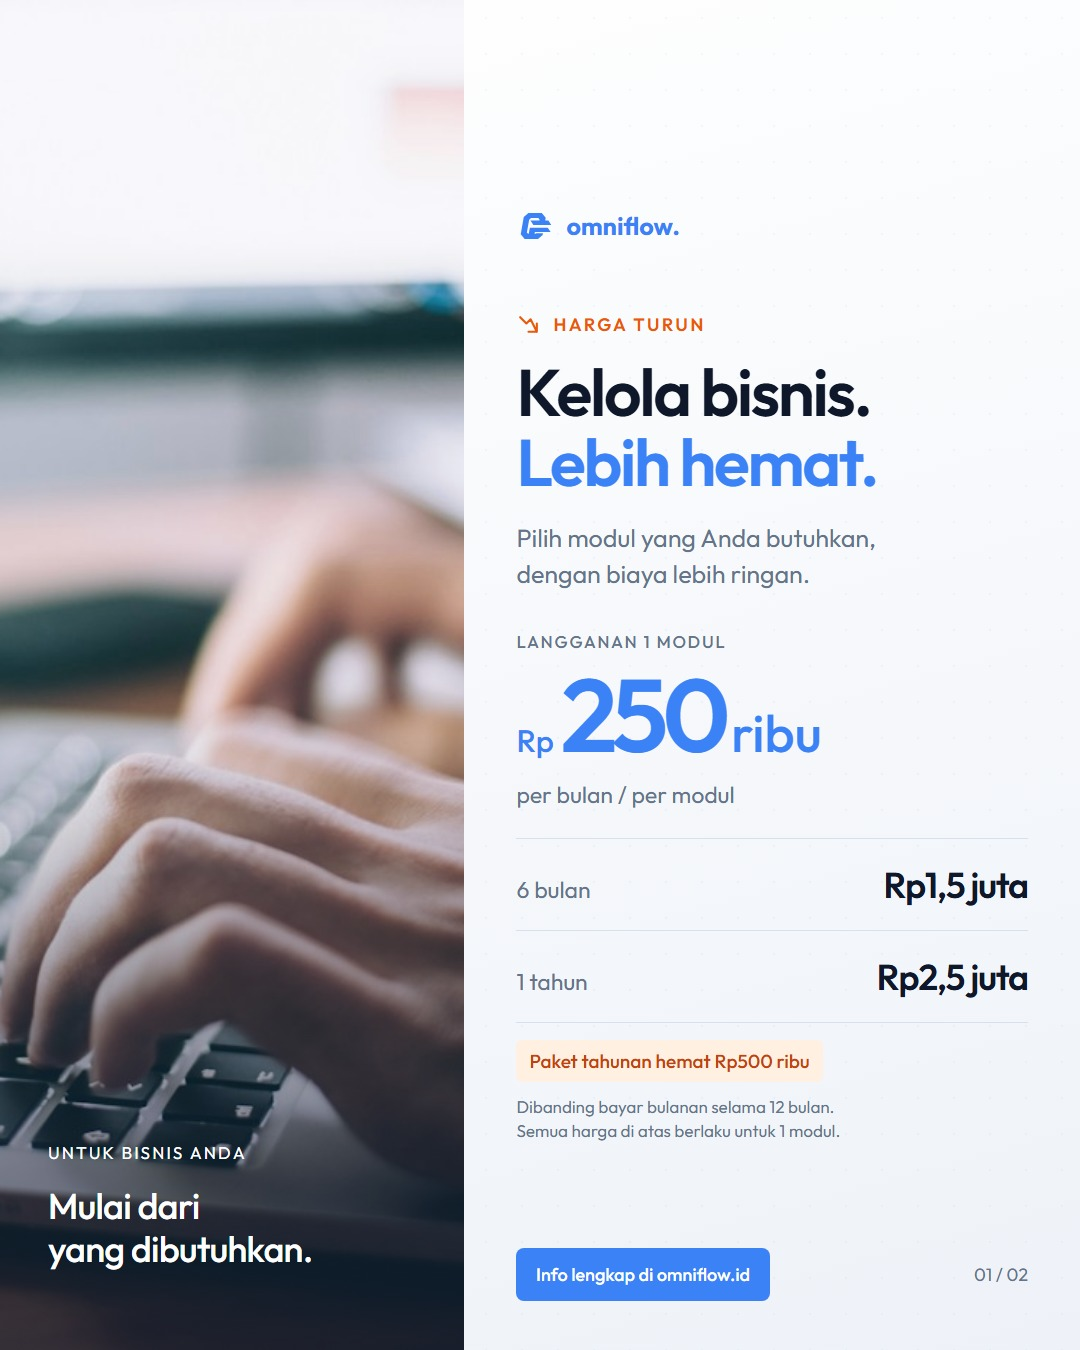
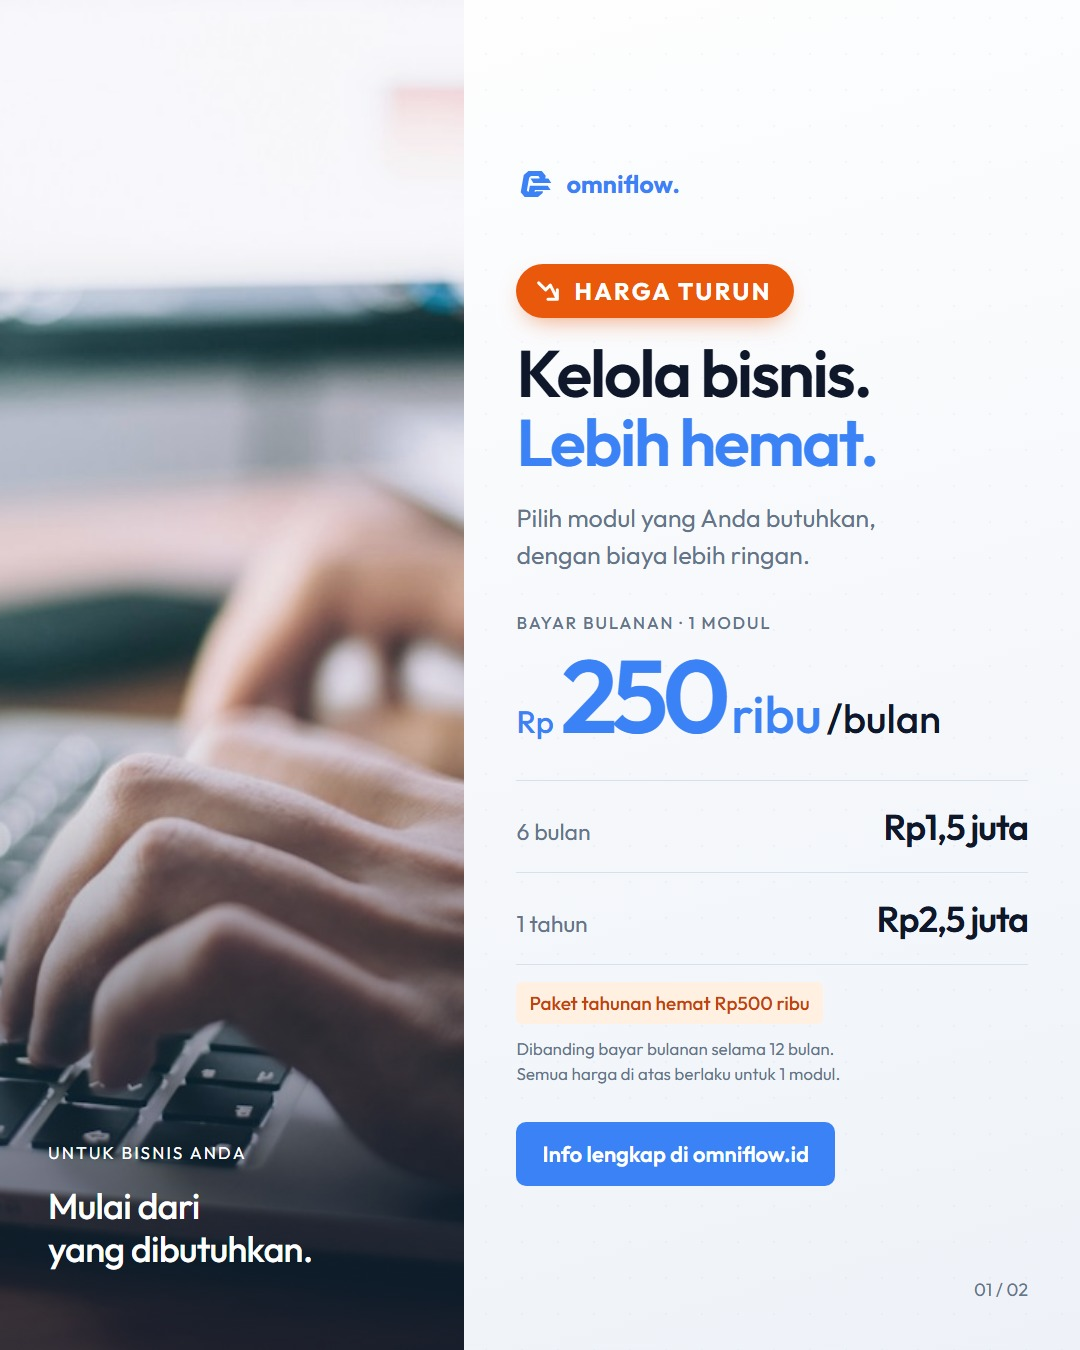
Refine Omniflow price drop IG: clearer monthly price, larger story type, highlighted badge

diff --git a/omniflow/ig-turun-harga/slide_01.html b/omniflow/ig-turun-harga/slide_01.html
@@ -19,8 +19,8 @@
     .content { padding: 90px 52px; flex: 1; align-self: center; }
     .brand { display: flex; gap: 10px; align-items: center; color: #3b82f6; font-size: 25px; font-weight: 700; }
     .brand svg { width: 40px; height: 40px; }
-    .eyebrow { margin-top: 66px; color: #ea580c; font-size: 18px; font-weight: 600; letter-spacing: .13em; display: flex; align-items: center; gap: 12px; }
-    .eyebrow svg { width: 25px; height: 25px; }
+    .eyebrow { margin-top: 60px; display: inline-flex; align-items: center; gap: 12px; padding: 12px 22px 12px 18px; background: #ea580c; color: #fff; border-radius: 999px; font-size: 24px; font-weight: 700; letter-spacing: .1em; box-shadow: 0 10px 24px -10px rgba(234,88,12,.6); }
+    .eyebrow svg { width: 28px; height: 28px; stroke-width: 2.6; }
     h1 { margin-top: 20px; font-size: 66px; line-height: 1.06; letter-spacing: -.035em; font-weight: 600; }
     h1 span { color: #3b82f6; }
     .intro { margin-top: 23px; color: #64748b; font-size: 25px; line-height: 1.45; }
@@ -30,19 +30,41 @@
     .price .rp { font-size: 31px; font-weight: 500; }
     .price strong { font-size: 103px; line-height: 1.08; letter-spacing: -.06em; font-weight: 600; }
     .price .unit { font-size: 52px; font-weight: 500; }
-    .period { font-size: 23px; color: #64748b; margin-top: 9px; }
+    .price .per { font-size: 40px; font-weight: 500; color: #0f172a; margin-left: -2px; }
     .option { padding: 23px 0; border-bottom: 1px solid #d7e0ed; display: flex; justify-content: space-between; align-items: baseline; }
     .option span { font-size: 23px; color: #64748b; }
     .option strong { font-size: 36px; letter-spacing: -.035em; font-weight: 600; }
     .saving { display: inline-block; margin-top: 17px; color: #c2410c; font-size: 19px; font-weight: 500; background: #fff0e2; padding: 9px 13px; border-radius: 6px; }
     .note { margin-top: 13px; font-size: 17px; color: #64748b; line-height: 1.45; }
-    .footer { position: absolute; bottom: 49px; left: 516px; right: 52px; display: flex; align-items: center; justify-content: space-between; font-size: 18px; color: #64748b; }
-    .footer b { color: #3b82f6; font-weight: 500; }
-    .footer b { padding: 15px 20px; background: #3b82f6; color: #fff; border-radius: 8px; }
+    .cta { display: inline-block; margin-top: 36px; padding: 18px 26px; background: #3b82f6; color: #fff; border-radius: 10px; font-size: 22px; font-weight: 600; }
+    .footer { position: absolute; bottom: 49px; right: 52px; font-size: 18px; color: #64748b; }
     html.story .canvas { height: 1920px; }
     html.story .photo-caption { bottom: 240px; }
-    html.story .footer { bottom: 230px; }
-    html.story .content { padding-top: 150px; padding-bottom: 150px; }
+    html.story .footer { bottom: 190px; }
+    html.story .content { padding: 0 52px 0 56px; }
+    html.story .photo { width: 33%; }
+    html.story .photo-caption { font-size: 34px; left: 40px; right: 16px; }
+    html.story .photo-caption small { font-size: 17px; margin-bottom: 18px; }
+    html.story .brand { font-size: 36px; gap: 14px; }
+    html.story .brand svg { width: 56px; height: 56px; }
+    html.story .eyebrow { margin-top: 70px; font-size: 32px; padding: 16px 30px 16px 24px; gap: 14px; }
+    html.story .eyebrow svg { width: 38px; height: 38px; }
+    html.story h1 { margin-top: 26px; font-size: 98px; }
+    html.story .intro { margin-top: 30px; font-size: 35px; }
+    html.story .monthly { margin-top: 56px; padding-bottom: 38px; }
+    html.story .label { font-size: 24px; }
+    html.story .price { margin-top: 10px; }
+    html.story .price .rp { font-size: 42px; }
+    html.story .price strong { font-size: 144px; }
+    html.story .price .unit { font-size: 70px; }
+    html.story .price .per { font-size: 52px; }
+    html.story .option { padding: 32px 0; }
+    html.story .option span { font-size: 33px; }
+    html.story .option strong { font-size: 54px; }
+    html.story .saving { margin-top: 26px; font-size: 28px; padding: 13px 18px; }
+    html.story .note { margin-top: 18px; font-size: 25px; }
+    html.story .cta { margin-top: 50px; padding: 26px 38px; font-size: 33px; border-radius: 12px; }
+    html.story .footer { font-size: 22px; }
     @media (max-width: 1079px) { .canvas { zoom: calc(100vw / 1080px); } }
   </style>
 </head>
@@ -60,16 +82,16 @@
       <h1>Kelola bisnis.<br><span>Lebih hemat.</span></h1>
       <p class="intro">Pilih modul yang Anda butuhkan,<br>dengan biaya lebih ringan.</p>
       <div class="monthly">
-        <div class="label">LANGGANAN 1 MODUL</div>
-        <div class="price"><span class="rp">Rp</span><strong>250</strong><span class="unit">ribu</span></div>
-        <div class="period">per bulan / per modul</div>
+        <div class="label">BAYAR BULANAN &middot; 1 MODUL</div>
+        <div class="price"><span class="rp">Rp</span><strong>250</strong><span class="unit">ribu</span><span class="per">/bulan</span></div>
       </div>
       <div class="option"><span>6 bulan</span><strong>Rp1,5 juta</strong></div>
       <div class="option"><span>1 tahun</span><strong>Rp2,5 juta</strong></div>
       <div class="saving">Paket tahunan hemat Rp500 ribu</div>
       <p class="note">Dibanding bayar bulanan selama 12 bulan.<br>Semua harga di atas berlaku untuk 1 modul.</p>
+      <div class="cta">Info lengkap di omniflow.id</div>
     </section>
-    <footer class="footer"><b>Info lengkap di omniflow.id</b><span>01 / 02</span></footer>
+    <footer class="footer">01 / 02</footer>
   </main>
 </body>
 </html>

diff --git a/omniflow/ig-turun-harga/slide_02.html b/omniflow/ig-turun-harga/slide_02.html
@@ -29,10 +29,23 @@
     .cta p { margin-top: 8px; font-size: 23px; color: #eff6ff; }
     footer { position: absolute; bottom: 49px; left: 76px; right: 76px; display: flex; justify-content: space-between; font-size: 18px; color: #64748b; }
     footer b { color: #3b82f6; font-weight: 500; }
-    html.story .canvas { height: 1920px; padding-top: 250px; padding-bottom: 250px; }
-    html.story .module { min-height: 125px; padding-top: 27px; padding-bottom: 27px; }
+    html.story .canvas { height: 1920px; padding-top: 200px; padding-bottom: 300px; }
+    html.story .module { min-height: 0; padding-top: 24px; padding-bottom: 24px; }
     html.story .cta { margin-top: 48px; padding: 32px; }
     html.story footer { bottom: 200px; }
+    html.story .brand { font-size: 32px; gap: 12px; }
+    html.story .brand svg { width: 50px; height: 50px; }
+    html.story .eyebrow { font-size: 20px; }
+    html.story h1 { margin-top: 64px; font-size: 88px; }
+    html.story .intro { margin-top: 28px; font-size: 32px; }
+    html.story .modules { column-gap: 32px; margin-top: 48px; }
+    html.story .index { font-size: 21px; padding-top: 9px; }
+    html.story h2 { font-size: 36px; }
+    html.story .module p { font-size: 24px; margin-top: 8px; }
+    html.story .more { font-size: 27px; margin-top: 22px; }
+    html.story .cta strong { font-size: 44px; }
+    html.story .cta p { font-size: 28px; margin-top: 10px; }
+    html.story footer { font-size: 22px; }
     @media (max-width: 1079px) { .canvas { zoom: calc(100vw / 1080px); } }
   </style>
 </head>
